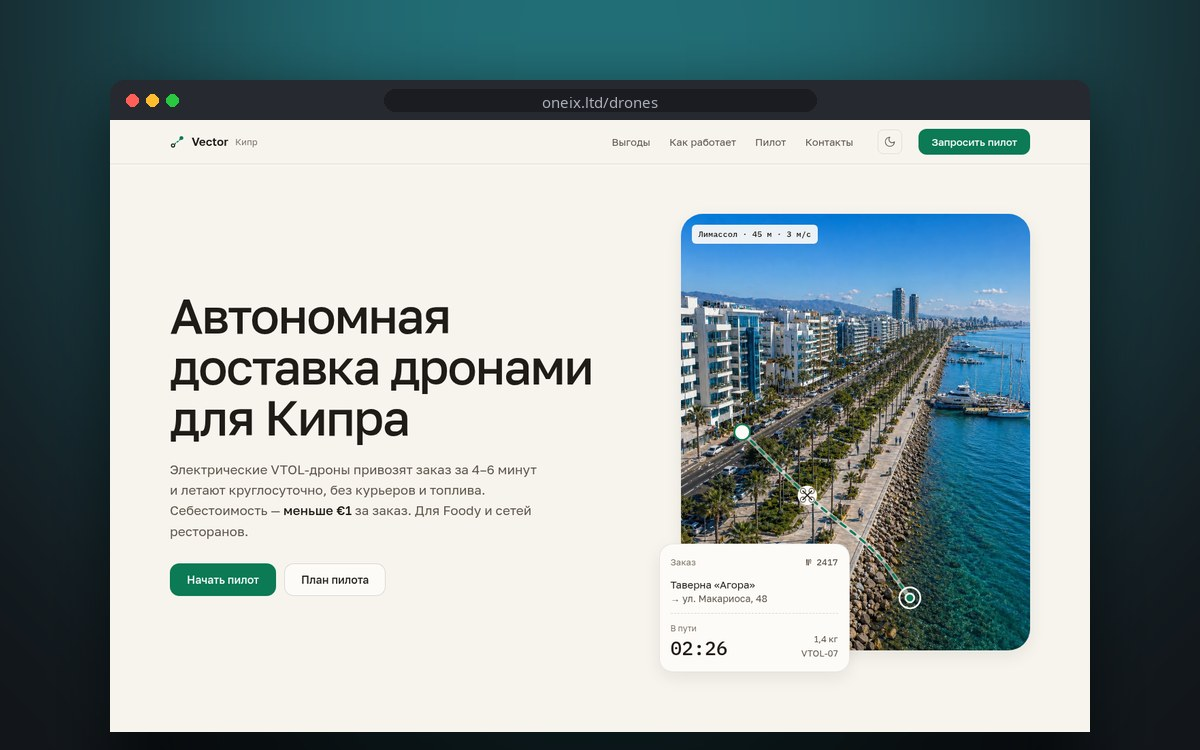
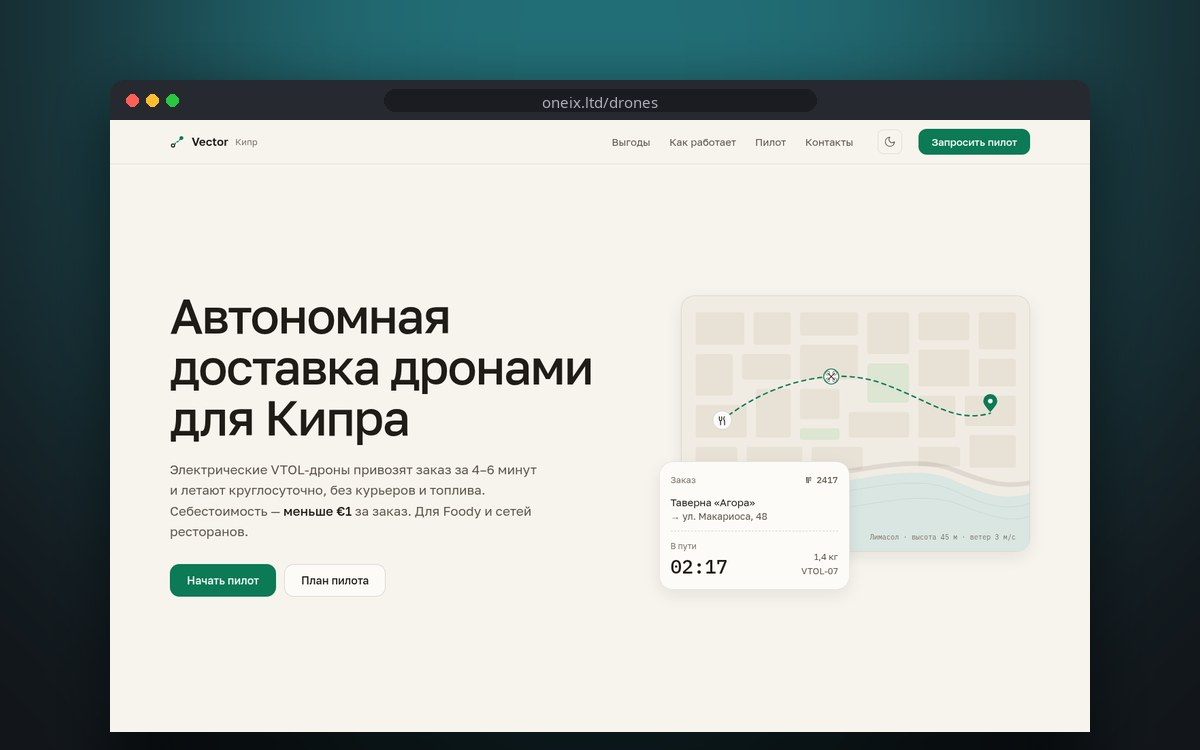
drones: replace hero photo with the 2D route map, horizontal steps

diff --git a/drones/index.html b/drones/index.html
@@ -102,7 +102,8 @@ html.dark .theme-btn .moon{display:none}html.dark .theme-btn .sun{display:block}
 .actions{display:flex;gap:12px;flex-wrap:wrap}
 
 /* hero photo moment */
-.scene{position:relative;padding:0 0 32px 32px}
+.scene{position:relative;padding:0 0 56px 32px}
+.map{border-radius:28px}
 .photo{position:relative;aspect-ratio:4/5;border-radius:32px;overflow:hidden;box-shadow:var(--shadow);background:var(--sea)}
 .photo img{position:absolute;inset:0;width:100%;height:100%;object-fit:cover}
 .photo svg{position:absolute;inset:0;width:100%;height:100%}
@@ -144,15 +145,16 @@ section.green form{background:var(--card);color:var(--text);border:0;border-radi
 .why h3{font-size:18px;font-weight:500;margin:0 0 8px}
 .why p{margin:0;color:var(--text-2)}
 
-.how{display:grid;grid-template-columns:minmax(0,5fr) minmax(0,7fr);gap:48px;align-items:center}
+.how{display:block}
 .specrow{display:grid;grid-template-columns:repeat(5,1fr);margin-top:48px;border:1px solid var(--line);border-radius:16px;background:var(--card);overflow:hidden}
 .specrow div{padding:20px 24px;border-left:1px solid var(--line)}
 .specrow div:first-child{border-left:0}
 .specrow span{display:block;font-size:13px;color:var(--muted);margin-bottom:6px}
 .specrow b{font-weight:500}
-.steps{list-style:none;margin:0;padding:0;position:relative}
-.steps::before{content:"";position:absolute;left:19px;top:20px;bottom:20px;border-left:1.5px dashed var(--line-strong)}
-.steps li{position:relative;display:grid;grid-template-columns:40px minmax(0,1fr);gap:16px;padding:8px 0 24px}
+.steps{list-style:none;margin:0;padding:0;position:relative;display:grid;grid-template-columns:repeat(4,1fr);gap:32px}
+.steps::before{content:"";position:absolute;left:20px;right:0;top:20px;border-top:1.5px dashed var(--line-strong)}
+.steps li{position:relative;display:grid;gap:16px;align-content:start}
+.steps p{font-size:17px}
 .steps .n{width:40px;height:40px;border-radius:50%;display:grid;place-items:center;background:var(--card);border:1px solid var(--line-strong);font:500 15px/1 var(--sans);color:var(--text-2);position:relative}
 .steps li:last-child .n{border-color:var(--accent);color:var(--accent)}
 .steps p{margin:8px 0 0}
@@ -217,6 +219,8 @@ footer .wrap{display:flex;justify-content:space-between;gap:16px;flex-wrap:wrap}
 @media (max-width:1040px){
   .hero{grid-template-columns:1fr;min-height:0;padding:48px 0 64px}
   .scene{padding:0 0 32px 0;max-width:560px}
+  .steps{grid-template-columns:1fr 1fr;row-gap:32px}
+  .steps::before{display:none}
   .specrow{grid-template-columns:repeat(3,1fr)}
   .specrow div:nth-child(4){border-left:0}
   .specrow div:nth-child(n+4){border-top:1px solid var(--line)}
@@ -292,55 +296,6 @@ footer .wrap{display:flex;justify-content:space-between;gap:16px;flex-wrap:wrap}
       </div>
 
       <div class="scene enter">
-        <div class="photo">
-          <img src="img/limassol.webp" alt="Набережная Лимассола с высоты: пальмы, променад и море" width="1000" height="1500" fetchpriority="high">
-          <svg viewBox="0 0 400 500" preserveAspectRatio="none" aria-hidden="true">
-            <path id="proute" d="M70 250 C120 300 150 330 190 360 S240 410 262 440" fill="none" stroke="#fff" stroke-width="5" stroke-linecap="round" opacity=".55"/>
-            <path d="M70 250 C120 300 150 330 190 360 S240 410 262 440" fill="none" stroke="#0b7a55" stroke-width="2.5" stroke-dasharray="7 7" stroke-linecap="round"/>
-            <g transform="translate(70 250)"><circle r="9" fill="#fdfbf7" stroke="#0b7a55" stroke-width="2"/></g>
-            <g transform="translate(262 440)"><circle r="12" fill="none" stroke="#fdfbf7" stroke-width="2"/><circle r="5" fill="#0b7a55" stroke="#fdfbf7" stroke-width="2"/></g>
-            <g class="drone-anim"><g>
-              <circle r="11" fill="#fdfbf7"/><g stroke="#1f1b16" stroke-width="1.4" stroke-linecap="round"><path d="M-5 -5l10 10M5 -5l-10 10"/></g>
-              <g fill="none" stroke="#5e554a" stroke-width="1"><circle cx="-5" cy="-5" r="3"/><circle cx="5" cy="-5" r="3"/><circle cx="-5" cy="5" r="3"/><circle cx="5" cy="5" r="3"/></g>
-              <animateMotion dur="18s" repeatCount="indefinite" keyPoints="0.1;0.95" keyTimes="0;1" calcMode="linear"><mpath href="#proute"/></animateMotion>
-            </g></g>
-          </svg>
-          <span class="chip">Лимассол · 45 м · 3 м/с</span>
-        </div>
-        <div class="ticket">
-          <div class="ticket-head"><span>Заказ</span><b>№ 2417</b></div>
-          <div class="ticket-route">Таверна «Агора»<span>→ ул. Макариоса, 48</span></div>
-          <div class="ticket-foot">
-            <div><small>В пути</small><span class="timer" id="timer">03:12</span></div>
-            <div class="right">1,4 кг<br>VTOL-07</div>
-          </div>
-        </div>
-      </div>
-    </section>
-  </div>
-
-  <section class="block band" id="benefits" aria-labelledby="why-title">
-    <div class="wrap">
-      <h2 id="why-title">Почему Vector</h2>
-      <div class="why">
-        <div><b>2×</b><h3>Быстрее курьера</h3><p>Средняя доставка 4–6 минут при стабильной скорости и прямых маршрутах.</p></div>
-        <div class="key"><b>&lt;€1</b><h3>Себестоимость заказа</h3><p>Электричество, предиктивное обслуживание и локальный ИИ — без топлива и курьеров.</p></div>
-        <div><b>24/7</b><h3>Экологично</h3><p>Нулевые выхлопы, низкий шум, ночной режим и полёты круглые сутки.</p></div>
-      </div>
-    </div>
-  </section>
-
-  <section class="block" id="how" aria-labelledby="how-title">
-    <div class="wrap">
-      <h2 id="how-title">Как это работает</h2>
-      <div class="how">
-        <ol class="steps">
-          <li><span class="n">1</span><p>Заказ поступает в Vector API — интеграция с Foody или другим партнёром.</p></li>
-          <li><span class="n">2</span><p>Роутер назначает ближайший VTOL-дрон и строит безопасный маршрут.</p></li>
-          <li><span class="n">3</span><p>Взлёт, полёт и посадка. Клиент подтверждает получение QR-кодом.</p></li>
-          <li><span class="n">4</span><p>Дрон возвращается на базу или берёт следующий заказ.</p></li>
-        </ol>
-        <div class="mapcard">
         <div class="map" role="img" aria-label="Карта: маршрут дрона от ресторана к клиенту над городом у моря">
           <svg viewBox="0 0 600 440" aria-hidden="true">
             <!-- sea -->
@@ -385,7 +340,39 @@ footer .wrap{display:flex;justify-content:space-between;gap:16px;flex-wrap:wrap}
             <text x="576" y="420" text-anchor="end" fill="var(--muted)" font-family="IBM Plex Mono, monospace" font-size="12">Лимасол · высота 45 м · ветер 3 м/с</text>
           </svg>
         </div>
+        <div class="ticket">
+          <div class="ticket-head"><span>Заказ</span><b>№ 2417</b></div>
+          <div class="ticket-route">Таверна «Агора»<span>→ ул. Макариоса, 48</span></div>
+          <div class="ticket-foot">
+            <div><small>В пути</small><span class="timer" id="timer">03:12</span></div>
+            <div class="right">1,4 кг<br>VTOL-07</div>
+          </div>
         </div>
+      </div>
+    </section>
+  </div>
+
+  <section class="block band" id="benefits" aria-labelledby="why-title">
+    <div class="wrap">
+      <h2 id="why-title">Почему Vector</h2>
+      <div class="why">
+        <div><b>2×</b><h3>Быстрее курьера</h3><p>Средняя доставка 4–6 минут при стабильной скорости и прямых маршрутах.</p></div>
+        <div class="key"><b>&lt;€1</b><h3>Себестоимость заказа</h3><p>Электричество, предиктивное обслуживание и локальный ИИ — без топлива и курьеров.</p></div>
+        <div><b>24/7</b><h3>Экологично</h3><p>Нулевые выхлопы, низкий шум, ночной режим и полёты круглые сутки.</p></div>
+      </div>
+    </div>
+  </section>
+
+  <section class="block" id="how" aria-labelledby="how-title">
+    <div class="wrap">
+      <h2 id="how-title">Как это работает</h2>
+      <div class="how">
+        <ol class="steps">
+          <li><span class="n">1</span><p>Заказ поступает в Vector API — интеграция с Foody или другим партнёром.</p></li>
+          <li><span class="n">2</span><p>Роутер назначает ближайший VTOL-дрон и строит безопасный маршрут.</p></li>
+          <li><span class="n">3</span><p>Взлёт, полёт и посадка. Клиент подтверждает получение QR-кодом.</p></li>
+          <li><span class="n">4</span><p>Дрон возвращается на базу или берёт следующий заказ.</p></li>
+        </ol>
       </div>
       <div class="specrow">
         <div><span>Платформа</span><b>Pixhawk + ArduPilot</b></div>

diff --git a/portfolio-web.html b/portfolio-web.html
@@ -221,7 +221,7 @@
 <a class="theme-btn-s2 web-open" href="drone/" target="_blank" rel="noopener">Open site <i class="ti-arrow-top-right"></i></a></div></div></div>
 <div class="col-lg-6 col-12 mb-4"><div class="web-card">
 <a class="web-card-img" href="drones/" target="_blank" rel="noopener"><img src="assets/images/projects/web-hub/drones.jpg" alt="Vector - Drone Delivery Cyprus screenshot" loading="lazy"></a>
-<div class="web-card-body"><span class="web-kind">Landing page (RU)</span><h3>Vector &mdash; Drone Delivery Cyprus</h3><p>Russian-language landing for a VTOL drone delivery pilot in Cyprus: benefits, how it works, pricing and a lead form.</p><p class="web-example"><strong>Example:</strong> The hero shows one delivery over a real photo of Limassol: the drone flies the route and an order ticket&rsquo;s timer follows it; the steps section has its own SVG city map. Light and dark themes, remembered in <code>localStorage</code>.</p>
+<div class="web-card-body"><span class="web-kind">Landing page (RU)</span><h3>Vector &mdash; Drone Delivery Cyprus</h3><p>Russian-language landing for a VTOL drone delivery pilot in Cyprus: benefits, how it works, pricing and a lead form.</p><p class="web-example"><strong>Example:</strong> The hero shows one delivery: a flat SVG city map with the drone flying the route and an order ticket whose timer follows it. Light and dark themes, remembered in <code>localStorage</code>.</p>
 <div class="web-tags"><span class="web-tag">HTML</span><span class="web-tag">CSS</span><span class="web-tag">SVG</span><span class="web-tag">JavaScript</span><span class="web-tag">Dark mode</span></div>
 <a class="theme-btn-s2 web-open" href="drones/" target="_blank" rel="noopener">Open site <i class="ti-arrow-top-right"></i></a></div></div></div>
 <div class="col-lg-6 col-12 mb-4"><div class="web-card">
